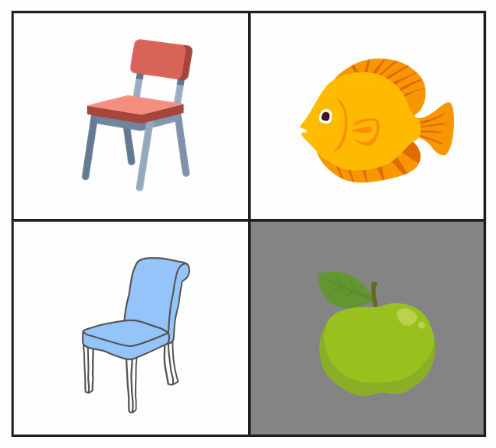
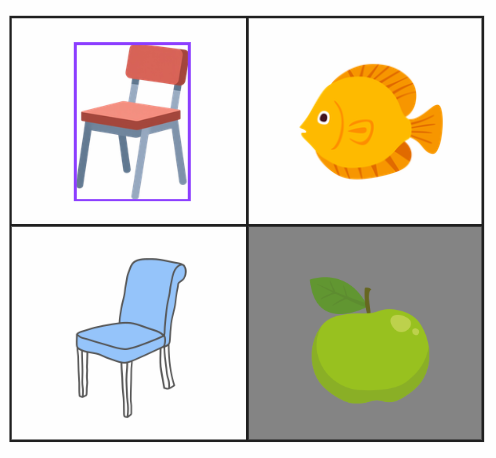
Update public path after repo rename

diff --git a/vue.config.js b/vue.config.js
@@ -19,5 +19,5 @@ module.exports = {
     lintStyleOnBuild: false,
     stylelint: {}
   },
-  publicPath: '/perspective-taking-categorical-one/'
+  publicPath: '/study-68/'
 };